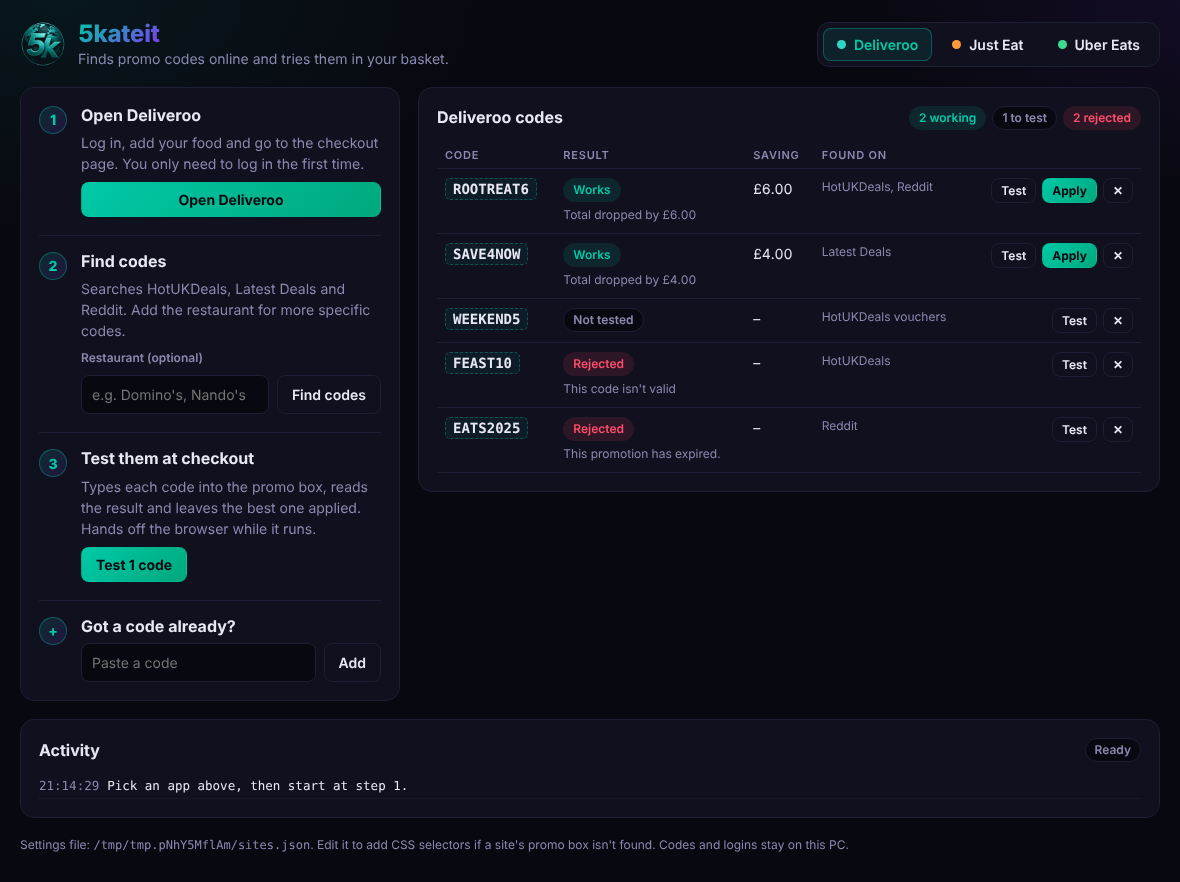
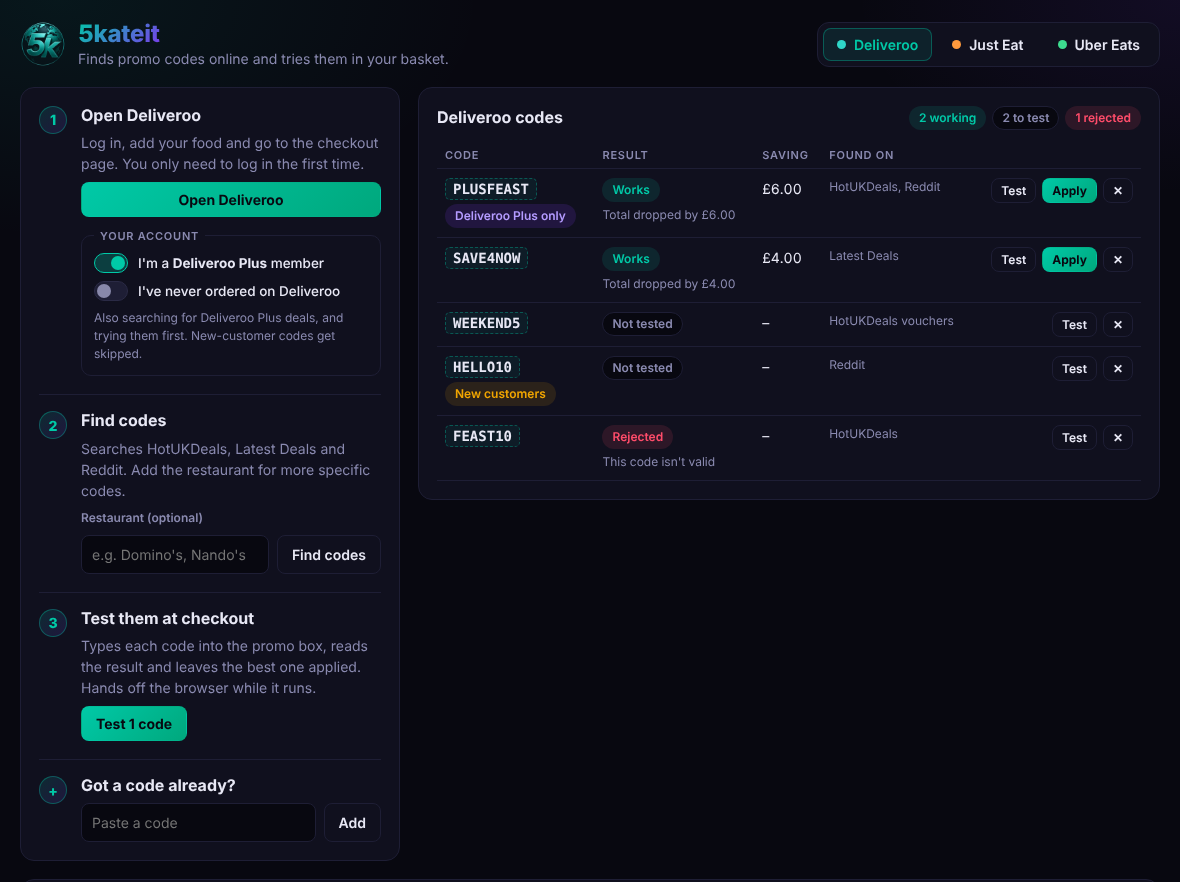
Add Deliveroo Plus, Just Eat+ and Uber One membership support
Each app gets 'member' and 'never ordered here' toggles. Members get an extra
search for member deals, which are tried first; codes tagged members-only or
new-customers-only are skipped when the account can't use them, so they don't
use up the per-run limit. Codes show their tags in the list. Bump to 1.1.0.

Claude-Session: https://claude.ai/code/session_01RqRrXGxBFH7Fao1U76GrQE

diff --git a/tcf/static/app.js b/tcf/static/app.js
@@ -3,7 +3,7 @@ const esc = s => String(s ?? "").replace(/[&<>"']/g, c => ({"&":"&amp;","<":"&lt
 const STATUS = {works:"Works", rejected:"Rejected", unknown:"Unclear", error:"Couldn't test", untested:"Not tested"};
 const ORDER = {works:0, untested:1, unknown:2, error:3, rejected:4};
 
-let S = {sites:{}, codes:[], status:{busy:null, browser:false}, site:null, progress:null};
+let S = {sites:{}, codes:[], accounts:{}, status:{busy:null, browser:false}, site:null, progress:null};
 try { S.site = localStorage.getItem("tcf.site"); } catch (e) {}
 
 async function api(path, body, method = "POST") {
@@ -23,6 +23,18 @@ function renderTabs() {
   document.querySelectorAll(".site-name").forEach(n => n.textContent = S.sites[S.site]?.name || "");
 }
 
+function tagsFor(c) {
+  const t = [];
+  if (c.member_only) t.push(`<span class="pill member">${esc(S.sites[c.site]?.member_name || "Members")} only</span>`);
+  if (c.new_only) t.push(`<span class="pill newcust">New customers</span>`);
+  return t.length ? `<div class="tags">${t.join("")}</div>` : "";
+}
+
+function usable(c) {
+  const a = S.accounts[c.site] || {};
+  return !((c.member_only && !a.member) || (c.new_only && !a.new));
+}
+
 function renderCodes() {
   const list = S.codes.filter(c => c.site === S.site)
     .sort((a, b) => (ORDER[a.status] - ORDER[b.status]) || ((b.saving || 0) - (a.saving || 0)) || ((b.sources?.length || 0) - (a.sources?.length || 0)));
@@ -31,7 +43,7 @@ function renderCodes() {
   const testing = S.progress && S.progress.site === S.site ? S.progress.code : null;
   $("rows").innerHTML = list.map(c => `
     <tr class="${c.code === testing ? "testing" : ""}">
-      <td><span class="code">${esc(c.code)}</span>${c.expired_hint ? `<div class="msg">Posted as possibly expired</div>` : ""}</td>
+      <td><span class="code">${esc(c.code)}</span>${tagsFor(c)}${c.expired_hint ? `<div class="msg">Posted as possibly expired</div>` : ""}</td>
       <td><span class="pill ${c.code === testing ? "busy" : c.status}">${c.code === testing ? "Testing…" : STATUS[c.status] || c.status}</span>
           ${c.message ? `<div class="msg">${esc(c.message)}</div>` : ""}</td>
       <td>${c.saving ? `£${Number(c.saving).toFixed(2)}` : "–"}</td>
@@ -51,7 +63,7 @@ function renderCodes() {
   const n = k => list.filter(c => c.status === k).length;
   $("summary").innerHTML = [["works", "working"], ["untested", "to test"], ["rejected", "rejected"]]
     .filter(([k]) => n(k)).map(([k, l]) => `<span class="pill ${k}">${n(k)} ${l}</span>`).join("");
-  const toTest = n("untested") + n("unknown");
+  const toTest = list.filter(c => (c.status === "untested" || c.status === "unknown") && usable(c)).length;
   $("btnTest").textContent = toTest ? `Test ${Math.min(toTest, S.maxCodes || 15)} code${toTest === 1 ? "" : "s"}` : "Test codes";
 }
 
@@ -77,7 +89,26 @@ function addLog(e) {
   while ($("log").children.length > 300) $("log").firstChild.remove();
 }
 
-function renderAll() { renderTabs(); renderCodes(); renderStatus(); }
+function renderAccount() {
+  const site = S.sites[S.site] || {}, acct = S.accounts[S.site] || {};
+  $("memberName").textContent = site.member_name || "membership";
+  $("accMember").checked = !!acct.member;
+  $("accNew").checked = !!acct.new;
+  const bits = [];
+  bits.push(acct.member ? `Also searching for ${site.member_name} deals, and trying them first.`
+                        : `Codes for ${site.member_name} members get skipped.`);
+  if (!acct.new) bits.push("New-customer codes get skipped.");
+  $("accHint").textContent = bits.join(" ");
+}
+
+async function saveAccount(field, value) {
+  const j = await api("/api/account", {site: S.site, [field]: value});
+  if (j.ok) { S.accounts[S.site] = j.account; renderAccount(); renderCodes(); }
+}
+$("accMember").onchange = e => saveAccount("member", e.target.checked);
+$("accNew").onchange = e => saveAccount("new", e.target.checked);
+
+function renderAll() { renderTabs(); renderAccount(); renderCodes(); renderStatus(); }
 
 $("btnOpen").onclick = () => api("/api/open", {site: S.site});
 $("btnFind").onclick = () => api("/api/find", {site: S.site, query: $("query").value});
@@ -93,7 +124,7 @@ $("addForm").onsubmit = async e => {
 
 (async function boot() {
   const st = await (await fetch("/api/state")).json();
-  S.sites = st.sites; S.codes = st.codes; S.status = st.status; S.maxCodes = st.max_codes;
+  S.sites = st.sites; S.codes = st.codes; S.accounts = st.accounts || {}; S.status = st.status; S.maxCodes = st.max_codes;
   if (!S.sites[S.site]) S.site = Object.keys(S.sites)[0];
   $("cfgPath").textContent = st.config_path;
   st.log.forEach(addLog);

diff --git a/site/index.html b/site/index.html
@@ -150,7 +150,7 @@ footer a { color:var(--teal); text-decoration:none; }
   <h2>Three steps, then it does the typing.</h2>
   <div class="steps">
     <div class="step"><div class="step-num">1</div><h3>Open the app you're ordering from</h3><p>5kateit opens Deliveroo, Just Eat or Uber Eats in your own Edge or Chrome. Log in once and it stays logged in.</p></div>
-    <div class="step"><div class="step-num">2</div><h3>Find codes</h3><p>It searches HotUKDeals, Latest Deals and Reddit, picks out anything that looks like a code and ranks them by how many places mention them.</p></div>
+    <div class="step"><div class="step-num">2</div><h3>Find codes</h3><p>It searches HotUKDeals, Latest Deals and Reddit, picks out anything that looks like a code and ranks them by how many places mention them. Tell it if you're a Deliveroo Plus, Just Eat+ or Uber One member and it hunts for member-only deals too.</p></div>
     <div class="step"><div class="step-num">3</div><h3>Test at checkout</h3><p>With your basket at checkout, it tries each code in the promo box, reads what the site says, and re-applies the best one at the end.</p></div>
   </div>
   <div class="shot"><img src="screenshot.png" alt="5kateit window showing the three steps and a list of codes" width="1180" height="882"></div>
@@ -164,6 +164,7 @@ footer a { color:var(--teal); text-decoration:none; }
     <div class="faq-item"><h3>Will it get my account banned?</h3><p>It tests at most 15 codes per run, types at human speed and waits a few seconds between tries. But automated use is against all three apps' terms, so there's always some risk. Use it on your own account at your own risk.</p></div>
     <div class="faq-item"><h3>Why do so many codes fail?</h3><p>Most codes are one-off, tied to certain accounts, or new-customer only. That's the point: 5kateit finds out in seconds instead of you trying them one by one.</p></div>
     <div class="faq-item"><h3>It can't find the promo box</h3><p>Sites change their checkout pages. The settings file shown at the bottom of the app lets you point it at the exact box and button, and updates will fix the defaults.</p></div>
+    <div class="faq-item"><h3>I pay for Deliveroo Plus, Just Eat+ or Uber One</h3><p>Switch on the membership toggle for that app. 5kateit then also searches for member deals and tries those first. If you're not a member, member-only codes are skipped so they don't waste your tries.</p></div>
     <div class="faq-item"><h3>Does it see my card details?</h3><p>No. It only reads the page text to spot the result and the total, and never clicks pay. Your logins, codes and history stay on your PC.</p></div>
     <div class="faq-item"><h3>Does it work on Mac?</h3><p>Not as a download yet. It's a Python app, so it runs on Mac or Linux from source with <code>python -m tcf</code>.</p></div>
   </div>

diff --git a/tcf/static/style.css b/tcf/static/style.css
@@ -84,3 +84,15 @@ tr.testing td{background:var(--accent-soft)}
 .foot{font-size:12px}
 .foot code{font-family:var(--f-mono);overflow-wrap:anywhere}
 @media (prefers-reduced-motion:reduce){*{transition:none!important}}
+
+.account{border:1px solid var(--line);border-radius:10px;padding:10px 12px 12px;margin:4px 0 0;display:flex;flex-direction:column;gap:8px;min-width:0}
+.account legend{font:600 11px var(--f-body);text-transform:uppercase;letter-spacing:.07em;color:var(--muted);padding:0 6px}
+.toggle{display:flex;align-items:center;gap:10px;font-size:13.5px;font-weight:500;color:var(--ink);cursor:pointer}
+.toggle input{appearance:none;-webkit-appearance:none;width:34px;height:20px;border-radius:20px;background:var(--line);border:1px solid #2a2a45;position:relative;flex:none;cursor:pointer;transition:background .2s,border-color .2s;margin:0}
+.toggle input::before{content:"";position:absolute;width:14px;height:14px;left:2px;top:2px;border-radius:50%;background:#8888aa;transition:transform .2s,background .2s}
+.toggle input:checked{background:rgba(0,201,167,.25);border-color:var(--accent)}
+.toggle input:checked::before{transform:translateX(14px);background:var(--accent)}
+.small{font-size:12px}
+.pill.member{background:rgba(124,58,237,.16);color:#b49bff;border-color:transparent}
+.pill.newcust{background:var(--warn-soft);color:var(--warn);border-color:transparent}
+.tags{display:flex;gap:5px;flex-wrap:wrap;margin-top:5px}

diff --git a/tcf/static/index.html b/tcf/static/index.html
@@ -25,6 +25,12 @@
           <h2>Open <span class="site-name"></span></h2>
           <p class="muted">Log in, add your food and go to the checkout page. You only need to log in the first time.</p>
           <button id="btnOpen" class="btn primary">Open <span class="site-name"></span></button>
+          <fieldset class="account">
+            <legend>Your account</legend>
+            <label class="toggle"><input type="checkbox" id="accMember"><span>I'm a <b id="memberName"></b> member</span></label>
+            <label class="toggle"><input type="checkbox" id="accNew"><span>I've never ordered on <span class="site-name"></span></span></label>
+            <p class="muted small" id="accHint"></p>
+          </fieldset>
         </div>
       </div>
       <div class="step">

diff --git a/tcf/engine.py b/tcf/engine.py
@@ -20,8 +20,9 @@ class Cancelled(Exception):
 
 
 class Engine:
-    def __init__(self, wallet, emit):
+    def __init__(self, wallet, emit, settings=None):
         self.wallet = wallet
+        self.settings = settings
         self.emit = emit
         self.jobs = queue.Queue()
         self.busy = None          # name of the job running, or None
@@ -134,17 +135,24 @@ class Engine:
         page.bring_to_front()
         self.log(f"{s['name']} is open. Log in, fill your basket and go to checkout, then come back and test codes.")
 
+    def _account(self, site):
+        return self.settings.account(site) if self.settings else {"member": False, "new": False}
+
     def find_codes(self, site, extra_query=""):
         self.cfg = load_config()
         self._ensure_browser()
         s = self.cfg["sites"][site]
-        query = " ".join(x for x in [s["query"], extra_query.strip()] if x)
+        acct = self._account(site)
         name_re = re.compile(re.sub(r"\s+", r"\\s*", re.escape(s["query"]).replace(r"\ ", " ")), re.I)
+        queries = [(" ".join(x for x in [s["query"], extra_query.strip()] if x), "")]
+        if acct["member"] and s.get("member_query"):
+            # Extra pass for member-only deals, e.g. "Deliveroo Plus" / "Uber One" codes.
+            queries.append((" ".join(x for x in [s["member_query"], extra_query.strip()] if x), f" ({s['member_name']})"))
         results = []
-        for src in self.cfg["sources"]:
+        for (query, label), src in [(q, src) for q in queries for src in self.cfg["sources"]]:
             self._check()
             url = src["url"].replace("{q}", quote(query))
-            self.log(f"Searching {src['name']}…")
+            self.log(f"Searching {src['name']}{label}…")
             try:
                 text = self._fetch_reddit(url, name_re) if src["kind"] == "reddit_json" else self._fetch_page(url)
             except Cancelled:
@@ -160,9 +168,12 @@ class Engine:
             existing = self.wallet.find(site, c["code"])
             self.wallet.upsert(site, c["code"], sources=c["sources"],
                                context=c["context"], expired_hint=c["expired_hint"],
+                               member_only=c["member_only"], new_only=c["new_only"],
                                **({} if existing else {"status": "untested"}))
         self.emit("codes", self.wallet.all())
-        self.log(f"Found {len(ranked)} codes to try for {s['name']}." if ranked else
+        n_member = sum(c["member_only"] for c in ranked)
+        extra = f" ({n_member} for {s.get('member_name', 'members')})" if n_member else ""
+        self.log(f"Found {len(ranked)} codes to try for {s['name']}{extra}." if ranked else
                  f"No codes found for {s['name']} right now. You can add your own.")
 
     def _fetch_page(self, url):
@@ -196,8 +207,18 @@ class Engine:
             return
         page.bring_to_front()
         if not codes:
+            acct = self._account(site)
             pool = [c for c in self.wallet.all() if c["site"] == site and c["status"] in ("untested", "unknown")]
-            pool.sort(key=lambda c: (c.get("expired_hint", False), -len(c.get("sources", []))))
+            # Don't spend the per-run limit on codes this account can't use.
+            skip = [c for c in pool if (c.get("member_only") and not acct["member"])
+                    or (c.get("new_only") and not acct["new"])]
+            pool = [c for c in pool if c not in skip]
+            if skip:
+                self.log(f"Skipping {len(skip)} code{'s' if len(skip) != 1 else ''} for members or new customers only "
+                         "(change this under Your account).")
+            # Members: try member-only deals first, they tend to be the better ones.
+            pool.sort(key=lambda c: (c.get("expired_hint", False), not (acct["member"] and c.get("member_only")),
+                                     -len(c.get("sources", []))))
             codes = [c["code"] for c in pool]
         codes = codes[: int(t["max_codes_per_run"])]
         if not codes:

diff --git a/tcf/extract.py b/tcf/extract.py
@@ -26,6 +26,10 @@ PATTERNS = [
     re.compile(_CODE + r"[\"'”’]?\s+(?i:at checkout|in the app|for £|gives|gets you)"),
 ]
 _NEAR_EXPIRED = re.compile(r"(?i)expired|no longer works|doesn'?t work|not working|dead")
+# Paid memberships: Deliveroo Plus, Just Eat+, Uber One.
+_NEAR_MEMBER = re.compile(r"(?i)deliveroo\s*plus|\bplus\s+(members?|subscribers?|customers?)|uber\s*one|just\s*eat\s*(\+|plus)"
+                          r"|members?[\s-]*(only|exclusive)|exclusive (to|for) members|for (all )?members|subscribers? only")
+_NEAR_NEW = re.compile(r"(?i)new (customers?|users?|accounts?|members only)|first[\s-]*(time )?order|1st order|first[\s-]*time (customers?|users?)")
 
 
 def looks_like_code(tok: str) -> bool:
@@ -52,10 +56,16 @@ def find_codes(text: str):
                 continue
             start, end = max(0, m.start() - 90), min(len(text), m.end() + 90)
             ctx = " ".join(text[start:end].split())
-            entry = found.setdefault(code, {"hits": 0, "context": ctx, "expired_hint": False})
+            entry = found.setdefault(code, {"hits": 0, "context": ctx, "expired_hint": False,
+                                            "member_only": False, "new_only": False})
             entry["hits"] += 1
-            if _NEAR_EXPIRED.search(text[start:end]):
+            near = text[start:end]
+            if _NEAR_EXPIRED.search(near):
                 entry["expired_hint"] = True
+            if _NEAR_MEMBER.search(near):
+                entry["member_only"] = True
+            if _NEAR_NEW.search(near):
+                entry["new_only"] = True
     return found
 
 
@@ -64,12 +74,13 @@ def merge_candidates(results):
     merged = {}
     for source, codes in results:
         for code, info in codes.items():
-            m = merged.setdefault(code, {"code": code, "sources": [], "hits": 0,
-                                         "context": info["context"], "expired_hint": False})
+            m = merged.setdefault(code, {"code": code, "sources": [], "hits": 0, "context": info["context"],
+                                         "expired_hint": False, "member_only": False, "new_only": False})
             if source not in m["sources"]:
                 m["sources"].append(source)
             m["hits"] += info["hits"]
-            m["expired_hint"] = m["expired_hint"] or info["expired_hint"]
+            for flag in ("expired_hint", "member_only", "new_only"):
+                m[flag] = m[flag] or info.get(flag, False)
     ranked = sorted(merged.values(),
                     key=lambda m: (m["expired_hint"], -len(m["sources"]), -m["hits"]))
     return ranked

diff --git a/tcf/server.py b/tcf/server.py
@@ -7,7 +7,7 @@ import time
 from flask import Flask, Response, jsonify, request, send_from_directory
 
 from .engine import Engine
-from .store import Wallet, config_path, load_config, resource_dir
+from .store import Settings, Wallet, config_path, load_config, resource_dir
 
 
 def create_app():
@@ -25,7 +25,8 @@ def create_app():
                 q.put(msg)
 
     wallet = Wallet()
-    engine = Engine(wallet, emit)
+    settings = Settings()
+    engine = Engine(wallet, emit, settings)
     app.engine = engine
     # The app window keeps /api/events open; __main__ exits once it has been gone a while.
     app.ui_state = {"clients": 0, "ever": False, "last_change": time.time()}
@@ -52,7 +53,8 @@ def create_app():
     def state():
         cfg = load_config()
         return jsonify({
-            "sites": {k: {"name": v["name"]} for k, v in cfg["sites"].items()},
+            "sites": {k: {"name": v["name"], "member_name": v.get("member_name", "")} for k, v in cfg["sites"].items()},
+            "accounts": settings.all_accounts(cfg["sites"]),
             "codes": wallet.all(),
             "status": engine.status(),
             "log": [m["data"] for m in history],
@@ -93,6 +95,14 @@ def create_app():
         if not site_ok(site) or not code:
             return jsonify({"ok": False, "error": "Pick an app and a code"}), 400
         return start("Applying code", engine.apply_code, site, code)
+
+    @app.post("/api/account")
+    def account():
+        site = request.json.get("site")
+        if not site_ok(site):
+            return jsonify({"ok": False, "error": "Unknown app"}), 400
+        acct = settings.set_account(site, **{k: request.json[k] for k in ("member", "new") if k in request.json})
+        return jsonify({"ok": True, "account": acct})
 
     @app.post("/api/stop")
     def stop():

diff --git a/tests/test_e2e_mock.py b/tests/test_e2e_mock.py
@@ -69,3 +69,31 @@ def test_tests_codes_and_leaves_best_applied(env):
     engine.submit("close", lambda: engine.ctx.close())
     while engine.busy:
         time.sleep(0.1)
+
+
+def test_member_and_new_customer_codes_follow_account_settings(env):
+    from tcf.engine import Engine
+    from tcf.store import Settings, Wallet
+
+    logs, order = [], []
+    wallet, settings = Wallet(), Settings()
+    engine = Engine(wallet, lambda k, d: (logs.append(d["msg"]) if k == "log" else
+                                          order.append(d["code"]) if k == "progress" and d else None), settings)
+    wallet.upsert("mock", "BADCODE1", sources=["a", "b"])
+    wallet.upsert("mock", "SAVE5", sources=["a"], member_only=True)
+    wallet.upsert("mock", "TENOFF", sources=["a"], new_only=True)
+
+    run(engine, engine.open_site, "mock")
+    run(engine, engine.test_codes, "mock")
+    assert order == ["BADCODE1"]  # member and new-customer codes skipped
+    assert any("Skipping 2 codes" in m for m in logs)
+
+    settings.set_account("mock", member=True)
+    wallet.upsert("mock", "BADCODE2", sources=["a", "b", "c"])
+    order.clear()
+    run(engine, engine.test_codes, "mock")
+    assert order == ["SAVE5", "BADCODE2"]  # member deal tried first, new-customer code still skipped
+    assert {c["code"]: c["status"] for c in wallet.all()}["SAVE5"] == "works"
+    engine.submit("close", lambda: engine.ctx.close())
+    while engine.busy:
+        time.sleep(0.1)

diff --git a/tcf/store.py b/tcf/store.py
@@ -101,3 +101,31 @@ class Wallet:
             self.codes = [c for c in self.codes
                           if not (c["site"] == site and c["code"].upper() == code.upper())]
             self._save()
+
+
+class Settings:
+    """Per-app account details the user tells us: paid membership and new-customer status."""
+
+    def __init__(self):
+        self.path = data_dir() / "settings.json"
+        self.lock = threading.Lock()
+        try:
+            self.data = json.loads(self.path.read_text(encoding="utf-8"))
+        except (OSError, ValueError):
+            self.data = {}
+
+    def account(self, site):
+        a = self.data.get("accounts", {}).get(site, {})
+        return {"member": bool(a.get("member")), "new": bool(a.get("new"))}
+
+    def all_accounts(self, sites):
+        return {k: self.account(k) for k in sites}
+
+    def set_account(self, site, **fields):
+        with self.lock:
+            a = self.data.setdefault("accounts", {}).setdefault(site, {})
+            a.update({k: bool(v) for k, v in fields.items() if k in ("member", "new")})
+            tmp = self.path.with_suffix(".tmp")
+            tmp.write_text(json.dumps(self.data, indent=2), encoding="utf-8")
+            tmp.replace(self.path)
+        return self.account(site)

diff --git a/tests/test_extract.py b/tests/test_extract.py
@@ -47,3 +47,20 @@ def test_classify_works_from_total_drop():
 
 def test_classify_unknown():
     assert extract.classify("Total\n£10.00", "Total\n£10.00", CFG)[0] == "unknown"
+
+
+def test_flags_member_and_new_customer_codes():
+    found = extract.find_codes(
+        "Deliveroo Plus members: use code PLUSFEAST for £5 off.\n\n\n\n"
+        + "x " * 80
+        + "\nNew customers get £10 off with code HELLO10 on your first order.\n"
+        + "y " * 80
+        + "\nAnyone can use code EVERYONE7 this week.")
+    assert found["PLUSFEAST"]["member_only"] and not found["PLUSFEAST"]["new_only"]
+    assert found["HELLO10"]["new_only"] and not found["HELLO10"]["member_only"]
+    assert not found["EVERYONE7"]["member_only"] and not found["EVERYONE7"]["new_only"]
+
+
+def test_uber_one_and_just_eat_plus_count_as_member():
+    assert extract.find_codes("Uber One members get code ONEEATS15")["ONEEATS15"]["member_only"]
+    assert extract.find_codes("Just Eat+ exclusive: code JEPLUS4")["JEPLUS4"]["member_only"]

diff --git a/tcf/__init__.py b/tcf/__init__.py
@@ -1,1 +1,1 @@
-__version__ = "1.0.2"
+__version__ = "1.1.0"

diff --git a/README.md b/README.md
@@ -5,8 +5,8 @@ Windows desktop app that finds promo codes for **Deliveroo**, **Just Eat** and *
 ## How it works
 
 1. **Open** – launches your installed Edge (or Chrome) through Playwright with a dedicated, saved profile. You log in and fill your basket yourself.
-2. **Find codes** – loads HotUKDeals, Latest Deals and Reddit search results, extracts code-like strings (`tcf/extract.py`) and ranks them by how many sources mention them.
-3. **Test** – on the checkout page it finds the promo box (opening "Add promo/voucher" if needed), types each code with human-like delays, reads the page for success/error text and the change in the total, removes working codes so the rest can be tried, then re-applies the best one.
+2. **Find codes** – loads HotUKDeals, Latest Deals and Reddit search results, extracts code-like strings (`tcf/extract.py`) and ranks them by how many sources mention them. Codes are tagged members-only (Deliveroo Plus, Just Eat+, Uber One) or new-customers-only from the surrounding text. With the membership toggle on, a second search runs for member deals.
+3. **Test** – on the checkout page it finds the promo box (opening "Add promo/voucher" if needed), types each code with human-like delays, reads the page for success/error text and the change in the total, removes working codes so the rest can be tried, then re-applies the best one. Codes the account can't use (members-only without a membership, new-customer codes on an existing account) are skipped; members' deals are tried first.
 
 Limits per run (max codes, delays, wait time) live in `sites.json`. The app never clicks pay.
 
